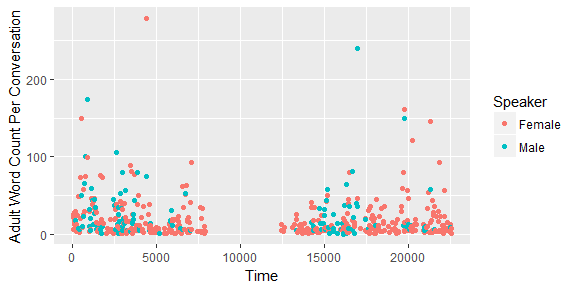
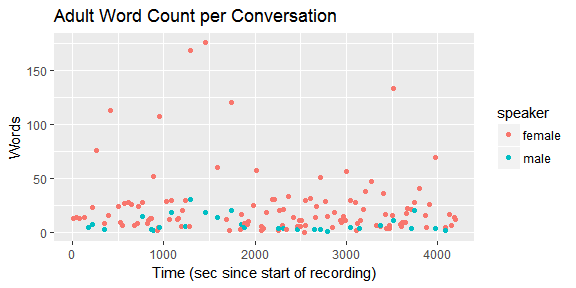
update documentation

diff --git a/README.md b/README.md
@@ -3,107 +3,137 @@
 rlena
 =====
 
-[![Project Status: Concept - Minimal or no implementation has been done yet.](http://www.repostatus.org/badges/0.1.0/concept.svg)](http://www.repostatus.org/#concept)
+[![Project Status: WIP – Initial development is in progress, but there has not yet been a stable, usable release suitable for the public.](http://www.repostatus.org/badges/latest/wip.svg)](http://www.repostatus.org/#wip)
 
-An R package for extracting data from LENA .its files.
+Overview
+--------
 
-Proof of Concept
-----------------
+The `rlena` package makes it easy to work with LENA `.its` files in R.
 
-There are just a few functions at the moment:
+The *Language Environment ANalysis (LENA)* system produces automatic annotations for audio recordings. Its annotations can be exported as `.its` files, that contain an `xml` structure. The `rlena` package helps with importing `.its` files into R and with creating and producing tidy data frames for further analysis.
 
--   `read_its_file()` loads the ITS file in R as an XML document.
--   `gather_ava_info()` extracts the AVA (Automatic Vocalization Assessment) scores into a dataframe.
--   `gather_child_info()` extracts the child information.
--   `gather_conversations()` collects the attributes of every `<Conversation>` node into a dataframe.
+The `read_its_file()` fuction takes the path to an .its file and returns an XML object.
+
+All other functions work with this object to extract information:
+
+-   `gather_ava_info()` returns the AVA (Automatic Vocalization Assessment).
+-   `gather_child_info()` returns child information (e.g. birth data, age, gender).
+-   `gather_conversations()` returns the content of all `<Conversation>` nodes.
+
+All three functions return tidy data frames that can be manipulated with the usual tools from the tidyverse.
+
+***Warning:** Please be aware that this package is early work in progress and subject to potentially code-breaking change.*
+
+Installation
+------------
+
+``` r
+# rlena is not (yet) available on CRAN. 
+# You can install the developmental version from GitHub:
+
+# install.packages("devtools")
+devtools::install_github("HomeBankCode/rlena")
+```
+
+Usage
+-----
+
+Load an `.its` file
 
 ``` r
 library(rlena)
 library(dplyr, warn.conflicts = FALSE)
 
-# Download an example ITS file for demo
-url <- "https://raw.githubusercontent.com/gpretzer/lena-its-tools/master/Example/e20160420_165405_010572.its"
-tmp <- tempfile()
-download.file(url, tmp)
-lena_log <- read_its_file(tmp) 
-
-## local file used for testing
-# lena_log <- read_its_file("tests/testthat/data/file-for-testing.its") 
+# Loading an example .its file
+its_file <- system.file('extdata', 'example.its', package = 'rlena')
+its <- read_its_file(its_file) 
 ```
 
-Examples of simple information extraction.
+Extract child info and results of the Automatic Vocalization Assessment (an index of the child's language development).
 
 ``` r
-gather_ava_info(lena_log)
-#> # A tibble: 1 x 5
-#>                  ITSFile AVA_Raw AVA_Stnd AVA_EstMLU AVA_EstDevAge
-#>                    <chr>   <dbl>    <dbl>      <chr>         <chr>
-#> 1 20160420_165405_010572   0.715  110.724        ORL           P5M
-gather_child_info(lena_log)
+gather_child_info(its)
 #> # A tibble: 1 x 6
-#>                  ITSFile  Birthdate Gender ChronologicalAge AVAModelAge
-#>                    <chr>     <date>  <chr>            <chr>       <chr>
-#> 1 20160420_165405_010572 2015-11-19      M              P4M         P4M
-#> # ... with 1 more variables: VCVModelAge <chr>
+#>   ITSFile  Birthdate Gender ChronologicalAge AVAModelAge VCVModelAge
+#>     <chr>     <date>  <chr>            <chr>       <chr>       <chr>
+#> 1    test 2015-01-01      M             P21M        P21M        P21M
+gather_ava_info(its)
+#> # A tibble: 1 x 5
+#>   ITSFile AVA_Raw AVA_Stnd AVA_EstMLU AVA_EstDevAge
+#>     <chr>   <dbl>    <dbl>      <dbl>         <chr>
+#> 1    test  -0.805   87.923      1.286          P18M
 ```
 
-We can extract a dataframe of conversations and play with the data.
+Extract all conversations. Each row of the returned data frame corresponds to one converstion node in the `.its` file. The columns contain the node's attributes, such as the number of adult words and child vocalizations.
 
 ``` r
-conversations <- gather_conversations(lena_log)
+conversations <- gather_conversations(its)
 conversations
-#> # A tibble: 655 x 41
-#>                   ITSFile   num  type average_dB peak_dB turnTaking
-#>                     <chr> <int> <chr>      <dbl>   <dbl>      <int>
-#>  1 20160420_165405_010572     1   AMF     -26.16  -13.00          0
-#>  2 20160420_165405_010572     2   AMF     -26.57  -14.80          0
-#>  3 20160420_165405_010572     3  AICF     -18.10   -6.84          2
-#>  4 20160420_165405_010572     4 AIOCF     -15.92   -6.65          0
-#>  5 20160420_165405_010572     5   AMF     -25.37  -10.55          0
-#>  6 20160420_165405_010572     6  AICF     -26.77  -10.15          1
-#>  7 20160420_165405_010572     7    CM     -18.12   -6.75          0
-#>  8 20160420_165405_010572     8  AICF     -19.69   -9.72          1
-#>  9 20160420_165405_010572     9   AMF     -24.60   -9.37          0
-#> 10 20160420_165405_010572    10   AMF     -34.84  -26.24          0
-#> # ... with 645 more rows, and 35 more variables:
-#> #   femaleAdultInitiation <int>, maleAdultInitiation <int>,
-#> #   childResponse <int>, childInitiation <int>, femaleAdultResponse <int>,
-#> #   maleAdultResponse <int>, adultWordCnt <dbl>, femaleAdultWordCnt <dbl>,
-#> #   maleAdultWordCnt <dbl>, femaleAdultUttCnt <int>,
-#> #   maleAdultUttCnt <int>, femaleAdultUttLen <chr>, maleAdultUttLen <chr>,
+#> # A tibble: 147 x 41
+#>    ITSFile   num  type average_dB peak_dB turnTaking femaleAdultInitiation
+#>      <chr> <int> <chr>      <dbl>   <dbl>      <int>                 <int>
+#>  1    test     1  AICF     -16.00   -3.11          1                     1
+#>  2    test     2    XM     -39.26  -26.90          0                     0
+#>  3    test     3   CIC     -20.48   -6.03          1                     0
+#>  4    test     4   AMF     -27.13   -6.74          0                     0
+#>  5    test     5 XIOCC     -23.72   -7.70          0                     0
+#>  6    test     6 CIOCX     -20.85   -5.46          0                     0
+#>  7    test     7    CM     -25.66  -21.56          0                     0
+#>  8    test     8   XIC     -18.28   -5.22          1                     0
+#>  9    test     9 CIOCX     -19.23   -3.18          0                     0
+#> 10    test    10  AICM     -14.63   -3.26          1                     0
+#> # ... with 137 more rows, and 34 more variables:
+#> #   maleAdultInitiation <int>, childResponse <int>, childInitiation <int>,
+#> #   femaleAdultResponse <int>, maleAdultResponse <int>,
+#> #   adultWordCnt <dbl>, femaleAdultWordCnt <dbl>, maleAdultWordCnt <dbl>,
+#> #   femaleAdultUttCnt <int>, maleAdultUttCnt <int>,
+#> #   femaleAdultUttLen <chr>, maleAdultUttLen <chr>,
 #> #   femaleAdultNonSpeechLen <chr>, maleAdultNonSpeechLen <chr>,
 #> #   childUttCnt <int>, childUttLen <chr>, childCryVfxLen <chr>, TVF <chr>,
 #> #   FAN <chr>, OLN <chr>, SIL <chr>, NOF <chr>, CXF <chr>, OLF <chr>,
 #> #   CHF <chr>, MAF <chr>, TVN <chr>, NON <chr>, CXN <chr>, CHN <chr>,
 #> #   MAN <chr>, FAF <chr>, startTime <dbl>, endTime <dbl>
+```
+
+Plot male and female adult word counts.
+
+``` r
+library("tidyr")
 
 # Create long data-frame of word counts
-library("tidyr")
 word_counts <- conversations %>% 
-  select(num, Time = startTime, 
-         Female = femaleAdultWordCnt, Male = maleAdultWordCnt) %>% 
-  gather(Speaker, Count, -num, -Time) %>% 
-  filter(Count != 0) %>% 
-  group_by(Speaker) %>% 
-  arrange(num) %>% 
-  mutate(Accumulated = cumsum(Count)) %>% 
-  ungroup()
+  select(conversation_nr = num,
+         time = startTime,
+         female = femaleAdultWordCnt, 
+         male = maleAdultWordCnt) %>% 
+  gather(key = speaker, value = count, female, male) %>% 
+  filter(count != 0)
+
+# Add acumulated word count
+word_counts <- word_counts %>%
+  group_by(speaker) %>% 
+  arrange(conversation_nr) %>%
+  mutate(count_acc = cumsum(count))
 
 library("ggplot2")
-ggplot(word_counts) + 
-  aes(x = Time, y = Count, color = Speaker) + 
-  geom_point() + 
-  ylab("Adult Word Count Per Conversation")
+word_counts %>%
+  ggplot(aes(time, count, color = speaker)) + 
+    geom_point() + 
+    labs(title = "Adult Word Count per Conversation",
+         x = "Time (sec since start of recording)",
+         y = "Words")
 ```
 
 ![](fig/README-conversation-demo-1.png)
 
 ``` r
-
-ggplot(word_counts) + 
-  aes(x = Time, y = Accumulated, color = Speaker) + 
-  geom_line() + 
-  ylab("Cumulative Adult Word Count")
+  
+  ggplot(word_counts) + 
+    aes(time, y = count_acc, color = speaker) + 
+    geom_line() + 
+    labs(title = "Accumulated Adult Word Count throughout Recording",
+         x = "Time (sec since start of recording)",
+         y = "Words (Accumulated)")
 ```
 
 ![](fig/README-conversation-demo-2.png)
